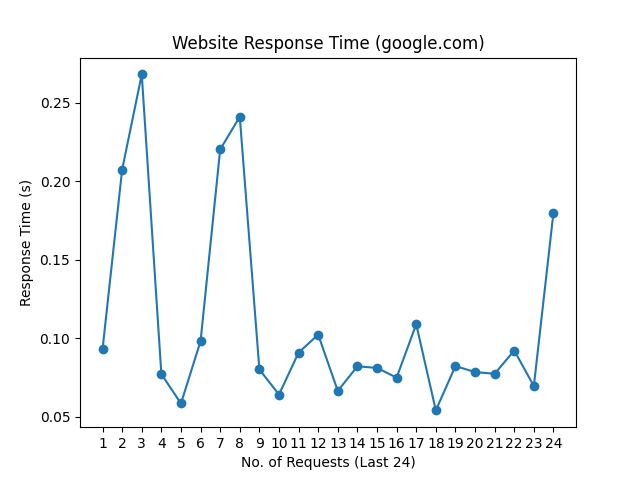
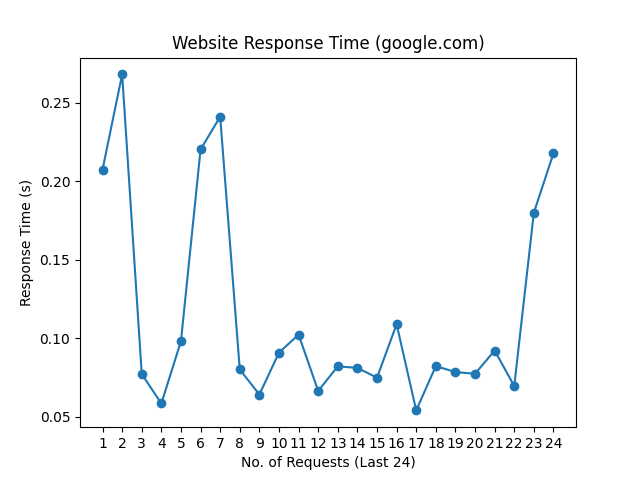
update README.md, history and graph

Changed region(s): [[0.1562, 0.125, 0.875, 0.875], [0.8438, 0.3125, 0.875, 0.4062]]

diff --git a/README.md b/README.md
@@ -1,10 +1,10 @@
 # Web Monitoring
 
-Last Checked: 15/02/2025 08:20
+Last Checked: 16/02/2025 08:22
 
 | Website | Response Time (s) | Status | Avg Uptime (%) |
 |---------|-------------------|--------|----------------|
 | www.thiswebsiteisdown.net | 0 <br> <img src="graph/thiswebsiteisdown.net.png" alt="Graph" width="200" height="200">  | ❌ Down | 0.00 |
-| www.netflix.com | 0.653381 <br> <img src="graph/netflix.com.png" alt="Graph" width="200" height="200">  | ✅ Up | 99.82 |
-| www.google.com | 0.179883 <br> <img src="graph/google.com.png" alt="Graph" width="200" height="200">  | ✅ Up | 100.00 |
-| www.facebook.com | 0.418148 <br> <img src="graph/facebook.com.png" alt="Graph" width="200" height="200">  | ✅ Up | 100.00 |
+| www.netflix.com | 0.673715 <br> <img src="graph/netflix.com.png" alt="Graph" width="200" height="200">  | ✅ Up | 99.82 |
+| www.google.com | 0.217653 <br> <img src="graph/google.com.png" alt="Graph" width="200" height="200">  | ✅ Up | 100.00 |
+| www.facebook.com | 0.270423 <br> <img src="graph/facebook.com.png" alt="Graph" width="200" height="200">  | ✅ Up | 100.00 |
